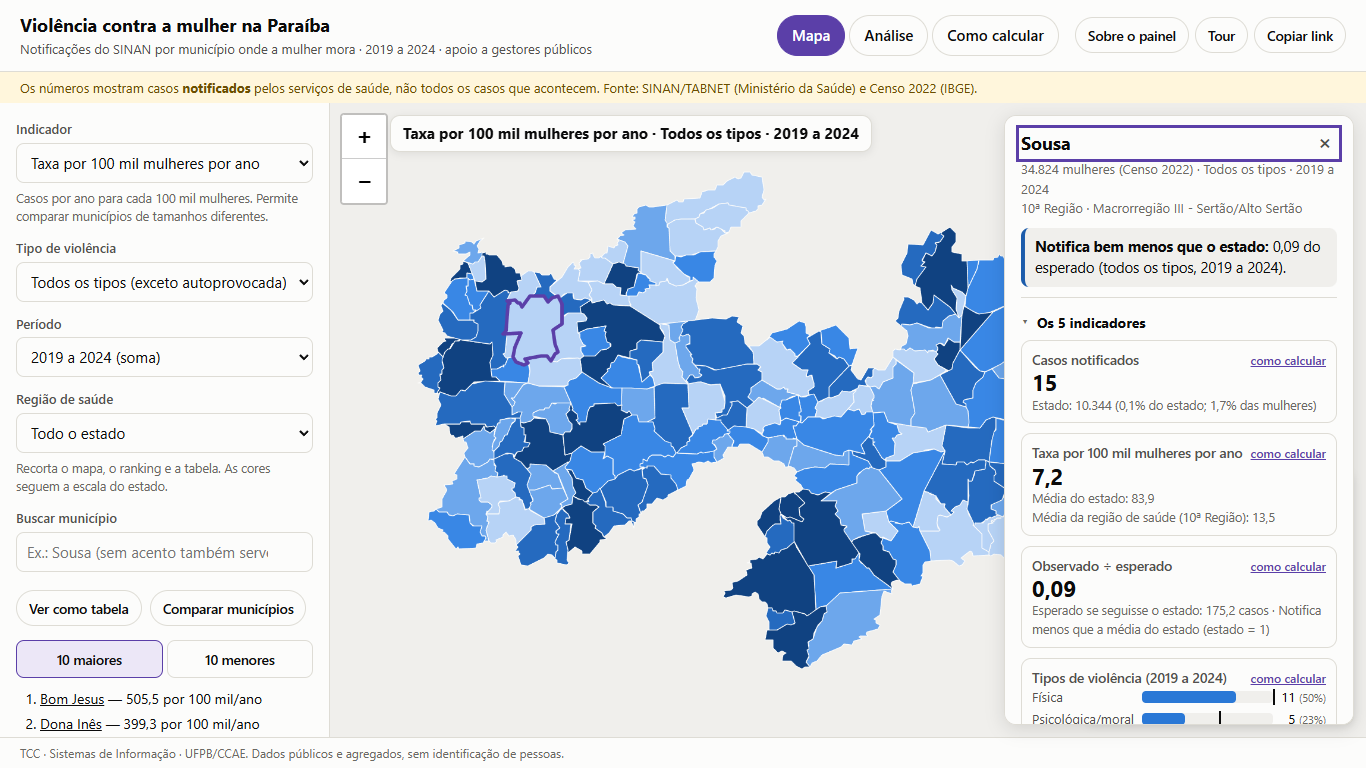
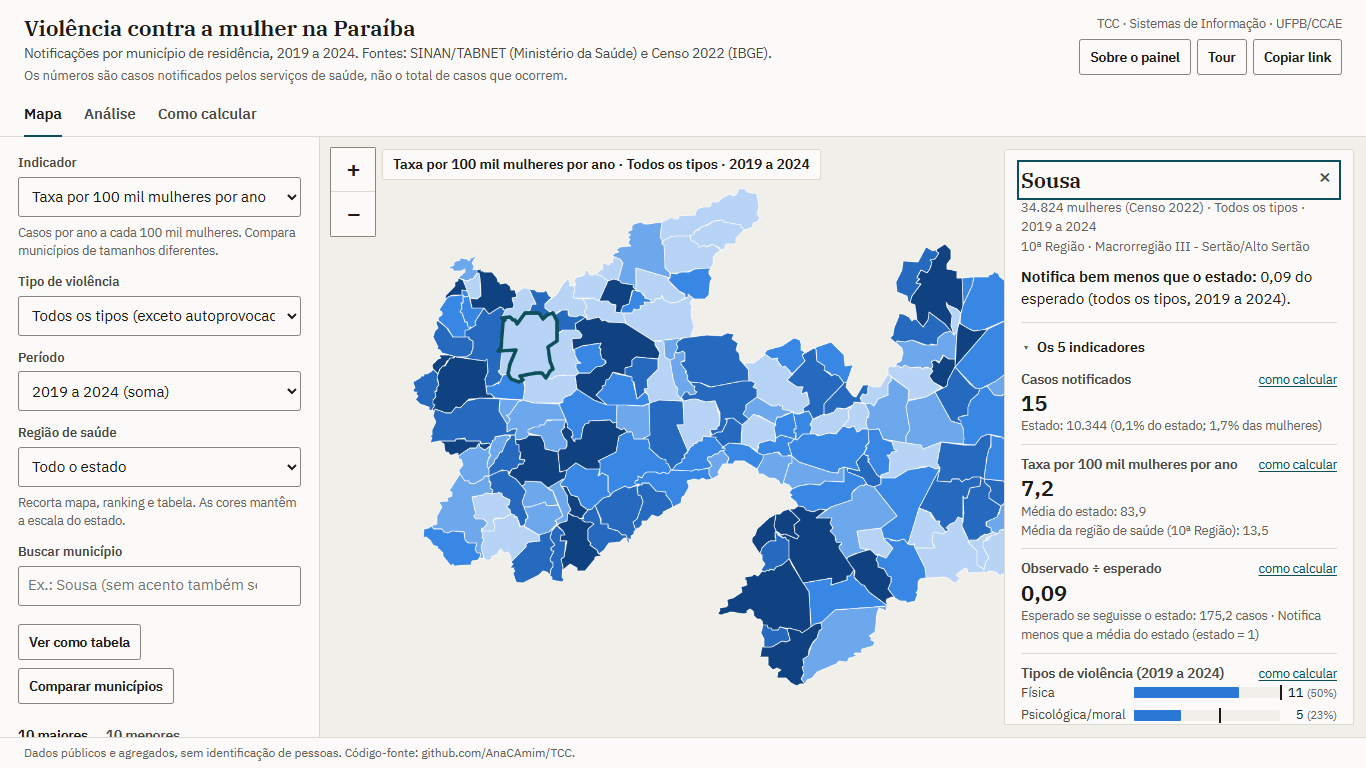
Documentação: mudanças de visual e de texto (antes e depois), README e capturas

Changed region(s): [[0.0, 0.0, 1.0, 1.0], [0.1537, 0.8438, 0.2152, 0.875]]

diff --git a/docs/websig_usabilidade.md b/docs/websig_usabilidade.md
@@ -97,3 +97,49 @@ Revisão de acabamento feita como faria uma banca de Interface com o Usuário, s
 | A11 | Abrir o painel montava as três telas de uma vez: no celular simulado, 380 ms de bloqueio e Desempenho 75 no Lighthouse. | Eficiência; tempo de resposta | 2 | Análise e Como calcular só são montadas na primeira vez que se abre a aba; "Sobre o painel" abre sem esperar os dados; o aviso de carregamento não desloca o layout; meta description. Lighthouse: celular 99, computador 100 (ver `docs/lighthouse/`). |
 
 Teste-piloto depois do acabamento: as tarefas continuam com 1 ou 2 ações. Na primeira visita há 1 ação a mais (fechar "Sobre o painel"), só uma vez.
+
+## Visual de relatório técnico (ramo `bases-contexto`, 20/11/2026)
+
+Objetivo: tirar a aparência de interface genérica e dar ao painel o visual de relatório técnico / jornalismo de dados. Dados, SQL, fórmulas, indicadores, funções e a estrutura das 3 telas não mudaram. O front anterior está em `backup/etapa5/`, fora do repositório.
+
+### Visual (antes → depois)
+
+| # | Elemento | Antes | Depois |
+|---|---|---|---|
+| V1 | Cor institucional | Roxo (#5b3fa8) em abas ativas, botões principais, faixas laterais e ícones | Azul-petróleo escuro (#0e4f5c; no tema escuro, #7fc3cf) só em links, foco e item ativo; o resto em cinzas quentes. Escalas do mapa sem mudança |
+| V2 | Tipografia | Fonte do sistema (system-ui) em tudo | IBM Plex Sans no texto e IBM Plex Serif nos títulos, servidas de `web/fonts/` (woff2, cerca de 60 KB; licença OFL em `web/fonts/OFL.txt`). Números tabulares em tabelas, ficha, ranking, destaques e gráficos |
+| V3 | Cantos | 8 a 14 px; botões e abas em pílula | 2 a 4 px |
+| V4 | Abas (Mapa, Análise, Como calcular) | Botões arredondados, o ativo preenchido de roxo | Texto com sublinhado de 2 px na cor institucional no item ativo |
+| V5 | Alternâncias (10 maiores/menores; Casos/Taxa) | Botões arredondados com fundo lilás no ativo | Mesmo padrão sublinhado das abas |
+| V6 | Botões | Pílulas; o principal em roxo | Retângulos com borda fina (contraste ≥ 3:1); o principal em cinza-escuro sólido |
+| V7 | Sombras | No título e na legenda do mapa, na ficha, no tour e nos avisos | Nenhuma; borda fina só onde algo flutua sobre o mapa |
+| V8 | Cartões | Análise e Como calcular em cartões com borda e fundo; indicadores da ficha em caixas | Seções separadas por linha fina e espaço; indicadores da ficha em linhas |
+| V9 | Faixas coloridas à esquerda | Resultados da Análise (roxo), frase-resumo da ficha (azul/vermelho), tela de erro | Removidas; a hierarquia vem do tamanho e do peso do texto |
+| V10 | Topo | Título e subtítulo; faixa amarela de aviso em toda a largura | Cabeçalho de relatório: título em serifa, subtítulo com período e fontes, nota discreta sob o título e crédito "TCC · Sistemas de Informação · UFPB/CCAE" à direita |
+| V11 | Números-resumo da Análise | Quatro cartões com número de 28 px | Linha de destaques entre filetes, número de 20 px e rótulo curto |
+| V12 | Principais resultados | Título em negrito, evidência e pergunta em itálico roxo | Um parágrafo por resultado com os números em negrito; "Para a gestão: …" em texto normal |
+| V13 | Tela Sobre | Avisos numa caixa amarela | Seções com títulos discretos em versalete: Como usar, Indicadores, Como ler, Fontes |
+| V14 | Favicon | Roxo | Azul-petróleo |
+
+### Texto (antes → depois)
+
+| # | Onde | Antes | Depois |
+|---|---|---|---|
+| T1 | Ranking | "Bom Jesus — 505,5 por 100 mil/ano" (travessão) | "Bom Jesus: 505,5 por 100 mil/ano" |
+| T2 | Aviso de notificação | Faixa amarela no topo; "Notificação não é ocorrência" no Sobre; "A notificação mede o registro, não a ocorrência" em Fontes e limitações | Uma nota sob o título: "Os números são casos notificados pelos serviços de saúde, não o total de casos que ocorrem." Em Como calcular fica só a leitura específica do observado ÷ esperado |
+| T3 | Aviso de poucos casos | Na legenda do mapa, no ranking, na tabela, três vezes na ficha, no Sobre e três vezes em Como calcular | Só onde há asterisco ou valor instável: nota do ranking e das tabelas ("* Menos de 10 casos no período: valor instável."), aviso curto na ficha e uma linha "Como ler" no Sobre. Saiu da legenda, da frase-resumo e dos "Cuidado" de taxa e de local |
+| T4 | Resultados (Análise) | "…não só a mulher adulta."; "…mas não só pelo tamanho."; "…ou seja, notifica proporcionalmente mais…"; "É onde vale o gestor investigar primeiro."; "Vale conhecer o que funciona neles." | Frases diretas, sem essas construções: "Meninas e mulheres jovens concentram os casos."; "Os casos se concentram nos municípios maiores."; dois títulos passaram a trazer o número calculado ("17 municípios notificam menos da metade do esperado.") |
+| T5 | Título do bloco | "Leituras prontas"; "Pergunta para a gestão:" | "Principais resultados"; "Para a gestão:" |
+| T6 | Destaques | "casos por 100 mil mulheres por ano (média do estado)"; "variação de casos entre 2019 e 2024" | "por 100 mil mulheres por ano, estado"; "variação dos casos, 2019 a 2024" |
+| T7 | Sobre | "Mostra as notificações … para apoiar gestoras e gestores públicos a planejar a rede de atendimento."; "Escolha o que ver no topo à esquerda: …"; "Começar pelo tour" | "Notificações de violência contra a mulher nos 223 municípios da Paraíba, de 2019 a 2024. Feito para gestoras e gestores da rede de atendimento."; um passo por frase; "Ver o tour" |
+| T8 | Tour | "Agora o mapa compara cada município…"; "dá para comparar idades…"; "qualquer número do painel pode ser refeito…" | "Cada município comparado com o estado. Azul: abaixo do esperado. Vermelho: acima."; "A taxa por 100 mil mulheres da faixa permite comparar idades com populações diferentes."; "Todas as contas podem ser refeitas numa planilha." |
+| T9 | Ficha | "Com números tão pequenos, um caso a mais ou a menos muda muito a taxa e o observado ÷ esperado."; "Barra: … · traço preto: …"; "Detalhe por faixa, em casos ou em taxa, em 'Faixa etária em detalhe'." | "Poucos casos (N no tipo e período): taxa e observado ÷ esperado instáveis."; "Barra: … Traço: …"; "Detalhe por faixa abaixo, em casos ou em taxa." |
+| T10 | Dicas do indicador | "Quantidade de notificações. Mostra onde está o volume de atendimento."; "Compara o município com o estado: 1 é igual, abaixo de 1 notifica menos, acima notifica mais." | "Número de notificações. Mostra o volume de atendimento."; "Compara com o estado: 1 é igual; abaixo de 1, notifica menos; acima, mais." |
+| T11 | Como calcular | "Os cinco indicadores deste painel … Nenhum modelo estatístico complexo é usado …"; definições longas; "Não é um sexto indicador: …" | "Como os indicadores são calculados" e uma frase de fontes; definições de uma linha ("Casos por ano a cada 100 mil mulheres do município."); "Contexto: local de atendimento", terminando em "Não é um indicador." |
+| T12 | Rodapé | Crédito do TCC repetido | Crédito só no topo; rodapé com "Dados públicos e agregados, sem identificação de pessoas." e o endereço do código-fonte |
+
+### Conferência
+
+- Contraste mínimo (testar_usabilidade.py): claro 5,29:1 (antes 4,77:1); escuro 6,36:1 (antes 5,9:1). Foco na cor institucional: 8,8:1 (claro) e 9,2:1 (escuro). Paleta do mapa sem mudança (ΔE mínimo 10,0).
+- Lighthouse (página inicial, servidor com compressão): celular Desempenho 99 e Acessibilidade 100; computador 100 e 100 (`docs/lighthouse/`). Sem pré-carregamento das fontes, o celular caía para 96. O pré-carregamento só é feito quando o painel é servido por http, porque no duplo clique (`file://`) o navegador o bloqueia e acusa erro de CORS.
+- Testes: dados 66, painel 120 (Firefox e WebKit 119), usabilidade 30, nos dois modos de abertura. Novo teste: nenhum travessão nos textos das telas, do Sobre e do Tour.

diff --git a/README.md b/README.md
@@ -124,7 +124,7 @@ docs/           plano do painel, revisão de usabilidade e acessibilidade, mater
 atualizar.bat   roda tudo em ordem; testar_navegadores.bat repete os testes no Firefox e no WebKit
 ```
 
-Tecnologias: PostgreSQL 16 + PostGIS 3.4 (Docker), Python 3 (só biblioteca padrão no pipeline; Playwright nos testes), HTML, CSS e JavaScript sem framework, Leaflet 1.9.4. O JavaScript fica em arquivos comuns (`<script src>`), sem módulos ES, porque o Chrome bloqueia módulos em páginas abertas com duplo clique.
+Tecnologias: PostgreSQL 16 + PostGIS 3.4 (Docker), Python 3 (só biblioteca padrão no pipeline; Playwright nos testes), HTML, CSS e JavaScript sem framework, Leaflet 1.9.4, fontes IBM Plex Sans e Serif servidas localmente. O JavaScript fica em arquivos comuns (`<script src>`), sem módulos ES, porque o Chrome bloqueia módulos em páginas abertas com duplo clique.
 
 ## Limitações
 
@@ -138,4 +138,4 @@ Tecnologias: PostgreSQL 16 + PostGIS 3.4 (Docker), Python 3 (só biblioteca padr
 
 ## Licença
 
-Código sob licença MIT (ver `LICENSE`). O Leaflet tem licença própria (BSD 2-Clause). Os dados públicos de `dados/brutos/` pertencem às fontes citadas.
+Código sob licença MIT (ver `LICENSE`). O Leaflet tem licença própria (BSD 2-Clause), e as fontes IBM Plex, a SIL Open Font License (`web/fonts/OFL.txt`). Os dados públicos de `dados/brutos/` pertencem às fontes citadas.
